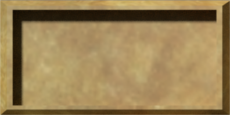
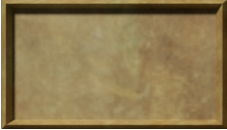
New bg's

diff --git a/PG2D_2020_Dzienni_FD_Projekt/GameHUD.cs b/PG2D_2020_Dzienni_FD_Projekt/GameHUD.cs
@@ -32,14 +32,14 @@ namespace PG2D_2020_Dzienni_FD_Projekt
         {
             spriteBatch.Begin();
 
-            spriteBatch.Draw(background, new Rectangle(0, 0, 230, 115), Color.White);
+            spriteBatch.Draw(background, new Rectangle(0, 0, 230, 130), Color.White);
             //spriteBatch.DrawString(fontCocoonian, "To bedzie sumer gra!!!", new Vector2(10, 0), Color.Gold);
-            spriteBatch.Draw(moneyIcon, new Rectangle(20, 10, moneyIcon.Width, moneyIcon.Height), Color.Gold);
-            spriteBatch.DrawString(fontDiamond, player.Money.ToString(), new Vector2(35, 0), Color.Gold, 0f, Vector2.Zero, 0.7f, SpriteEffects.None, 0.1f);
-            spriteBatch.Draw(expIcon, new Rectangle(110, 10, expIcon.Width, expIcon.Height), Color.Silver);
-            spriteBatch.DrawString(fontDiamond, player.Exp.ToString(), new Vector2(125, 0), Color.Silver, 0f, Vector2.Zero, 0.7f, SpriteEffects.None, 0.1f);
-            spriteBatch.DrawString(fontDiamond, "HP: " + player.HpToString() + "/" + player.MaxHpToString(), new Vector2(20, 35), Color.Red);
-            spriteBatch.DrawString(fontDiamond, "MP: " + player.MpToString() + "/" + player.MaxMpToString(), new Vector2(20, 75), Color.Blue);
+            spriteBatch.Draw(moneyIcon, new Rectangle(20, 15, moneyIcon.Width, moneyIcon.Height), Color.Gold);
+            spriteBatch.DrawString(fontDiamond, player.Money.ToString(), new Vector2(45, 15), Color.Gold, 0f, Vector2.Zero, 0.7f, SpriteEffects.None, 0.1f);
+            spriteBatch.Draw(expIcon, new Rectangle(110, 15, expIcon.Width, expIcon.Height), Color.Silver);
+            spriteBatch.DrawString(fontDiamond, player.Exp.ToString(), new Vector2(135, 15), Color.Silver, 0f, Vector2.Zero, 0.7f, SpriteEffects.None, 0.1f);
+            spriteBatch.DrawString(fontDiamond, "HP: " + player.HpToString() + "/" + player.MaxHpToString(), new Vector2(20, 40), Color.Red);
+            spriteBatch.DrawString(fontDiamond, "MP: " + player.MpToString() + "/" + player.MaxMpToString(), new Vector2(20, 80), Color.Blue);
 
             if (fastTravel && fastTraveTimer > 0)
             {

diff --git a/PG2D_2020_Dzienni_FD_Projekt/States/InventoryState.cs b/PG2D_2020_Dzienni_FD_Projekt/States/InventoryState.cs
@@ -53,7 +53,7 @@ namespace PG2D_2020_Dzienni_FD_Projekt.States
 
             spriteBatch.Draw(background, new Rectangle(0, 0, ResolutionManager.VirtualWidth, ResolutionManager.VirtualHeight), Color.White);
 
-            player.DrawAnimation(spriteBatch, new Vector2(0, 100), 2f);
+            player.DrawAnimation(spriteBatch, new Vector2(8, 160), 2f);
 
             foreach (var component in _components)
                 component.Draw(gameTime, spriteBatch);
